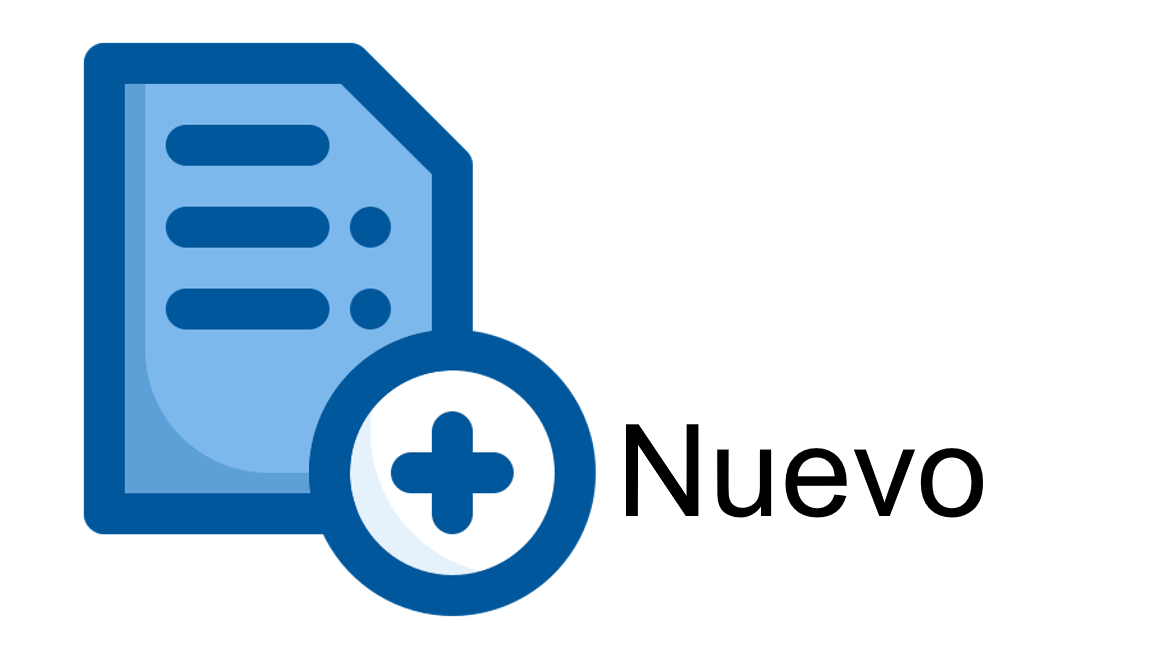
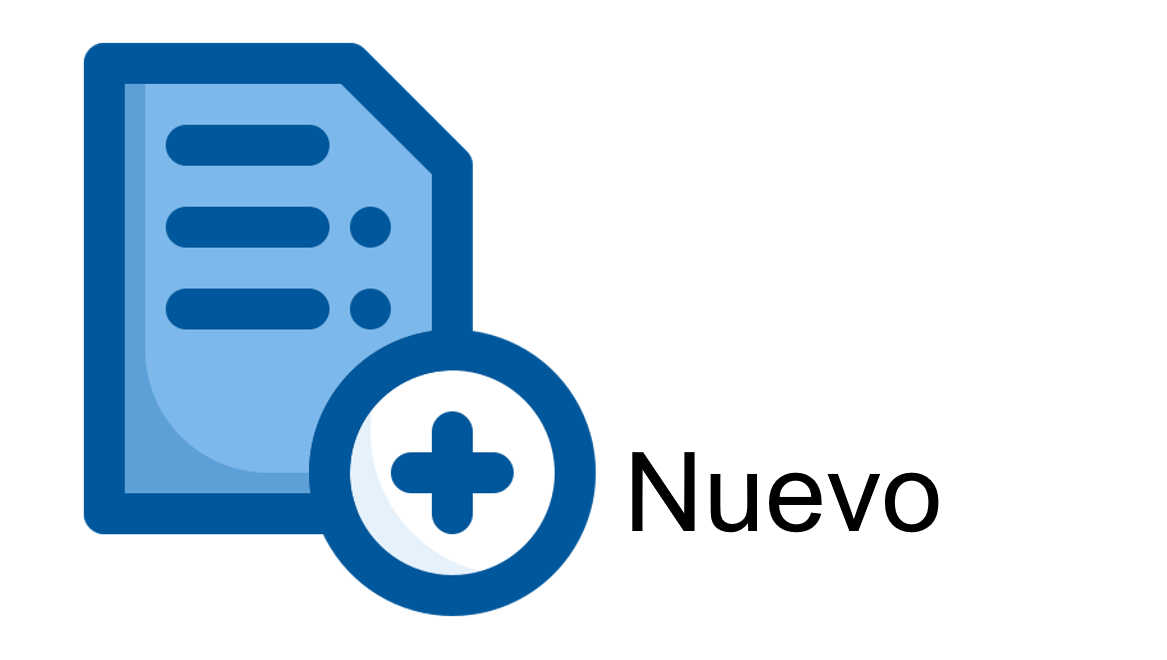
Francisco clsAlumnos

Changed region(s): [[0.5244, 0.6364, 0.8638, 0.8182]]

diff --git a/pryProyecto/clsAlumnos.cs b/pryProyecto/clsAlumnos.cs
@@ -1,0 +1,54 @@
+using MySqlConnector;
+using System;
+using System.Collections.Generic;
+using System.Data;
+using System.Linq;
+using System.Text;
+using System.Threading.Tasks;
+using static System.Windows.Forms.VisualStyles.VisualStyleElement;
+
+namespace pryProyecto
+{
+    internal class clsAlumnos
+    {
+        private MySqlDataAdapter consulta;
+        private DataTable tabla;
+
+        public DataTable CargarDataGrid()
+        {
+            tabla = new DataTable();
+
+            try
+            {
+                clsConexion conexionDB = new clsConexion();
+                using (var conexion = conexionDB.AbrirConexion())
+                {
+                    string sql = "SELECT A.matricula AS Matricula, " +
+                                 "A.nombreALUMNO AS Nombre, " +
+                                 "A.apellidoP AS 'A. Paterno', " +
+                                 "A.apellidoM AS 'A. Materno', " +
+                                 "C.nombreCarrera AS Carrera, " +
+                                 "T.nombreTutor AS Tutor, " +
+                                 "U.vchnombreUsuario AS Usuario, " +
+                                 "A.direccion, A.telefono, A.correo, " +
+                                 "A.promedioBachillerato, A.foto, " +
+                                 "A.idTutor, A.idCarrera, A.idUsuario " +
+                                 "FROM tblalumnos A " +
+                                 "INNER JOIN tblcarreras C ON A.idCarrera = C.idCarrera " +
+                                 "INNER JOIN tbltutores T ON A.idTutor = T.idTutor " +
+                                 "INNER JOIN tblusuarios U ON A.idUsuario = U.intidUsuario;";
+
+                    using (consulta = new MySqlDataAdapter(sql, conexion))
+                    {
+                        consulta.Fill(tabla);
+                    }
+                }
+            }
+            catch (Exception ex)
+            {
+                throw new Exception("Error en la tabla " + ex.Message);
+            }
+            return tabla;
+        }
+    }
+}
